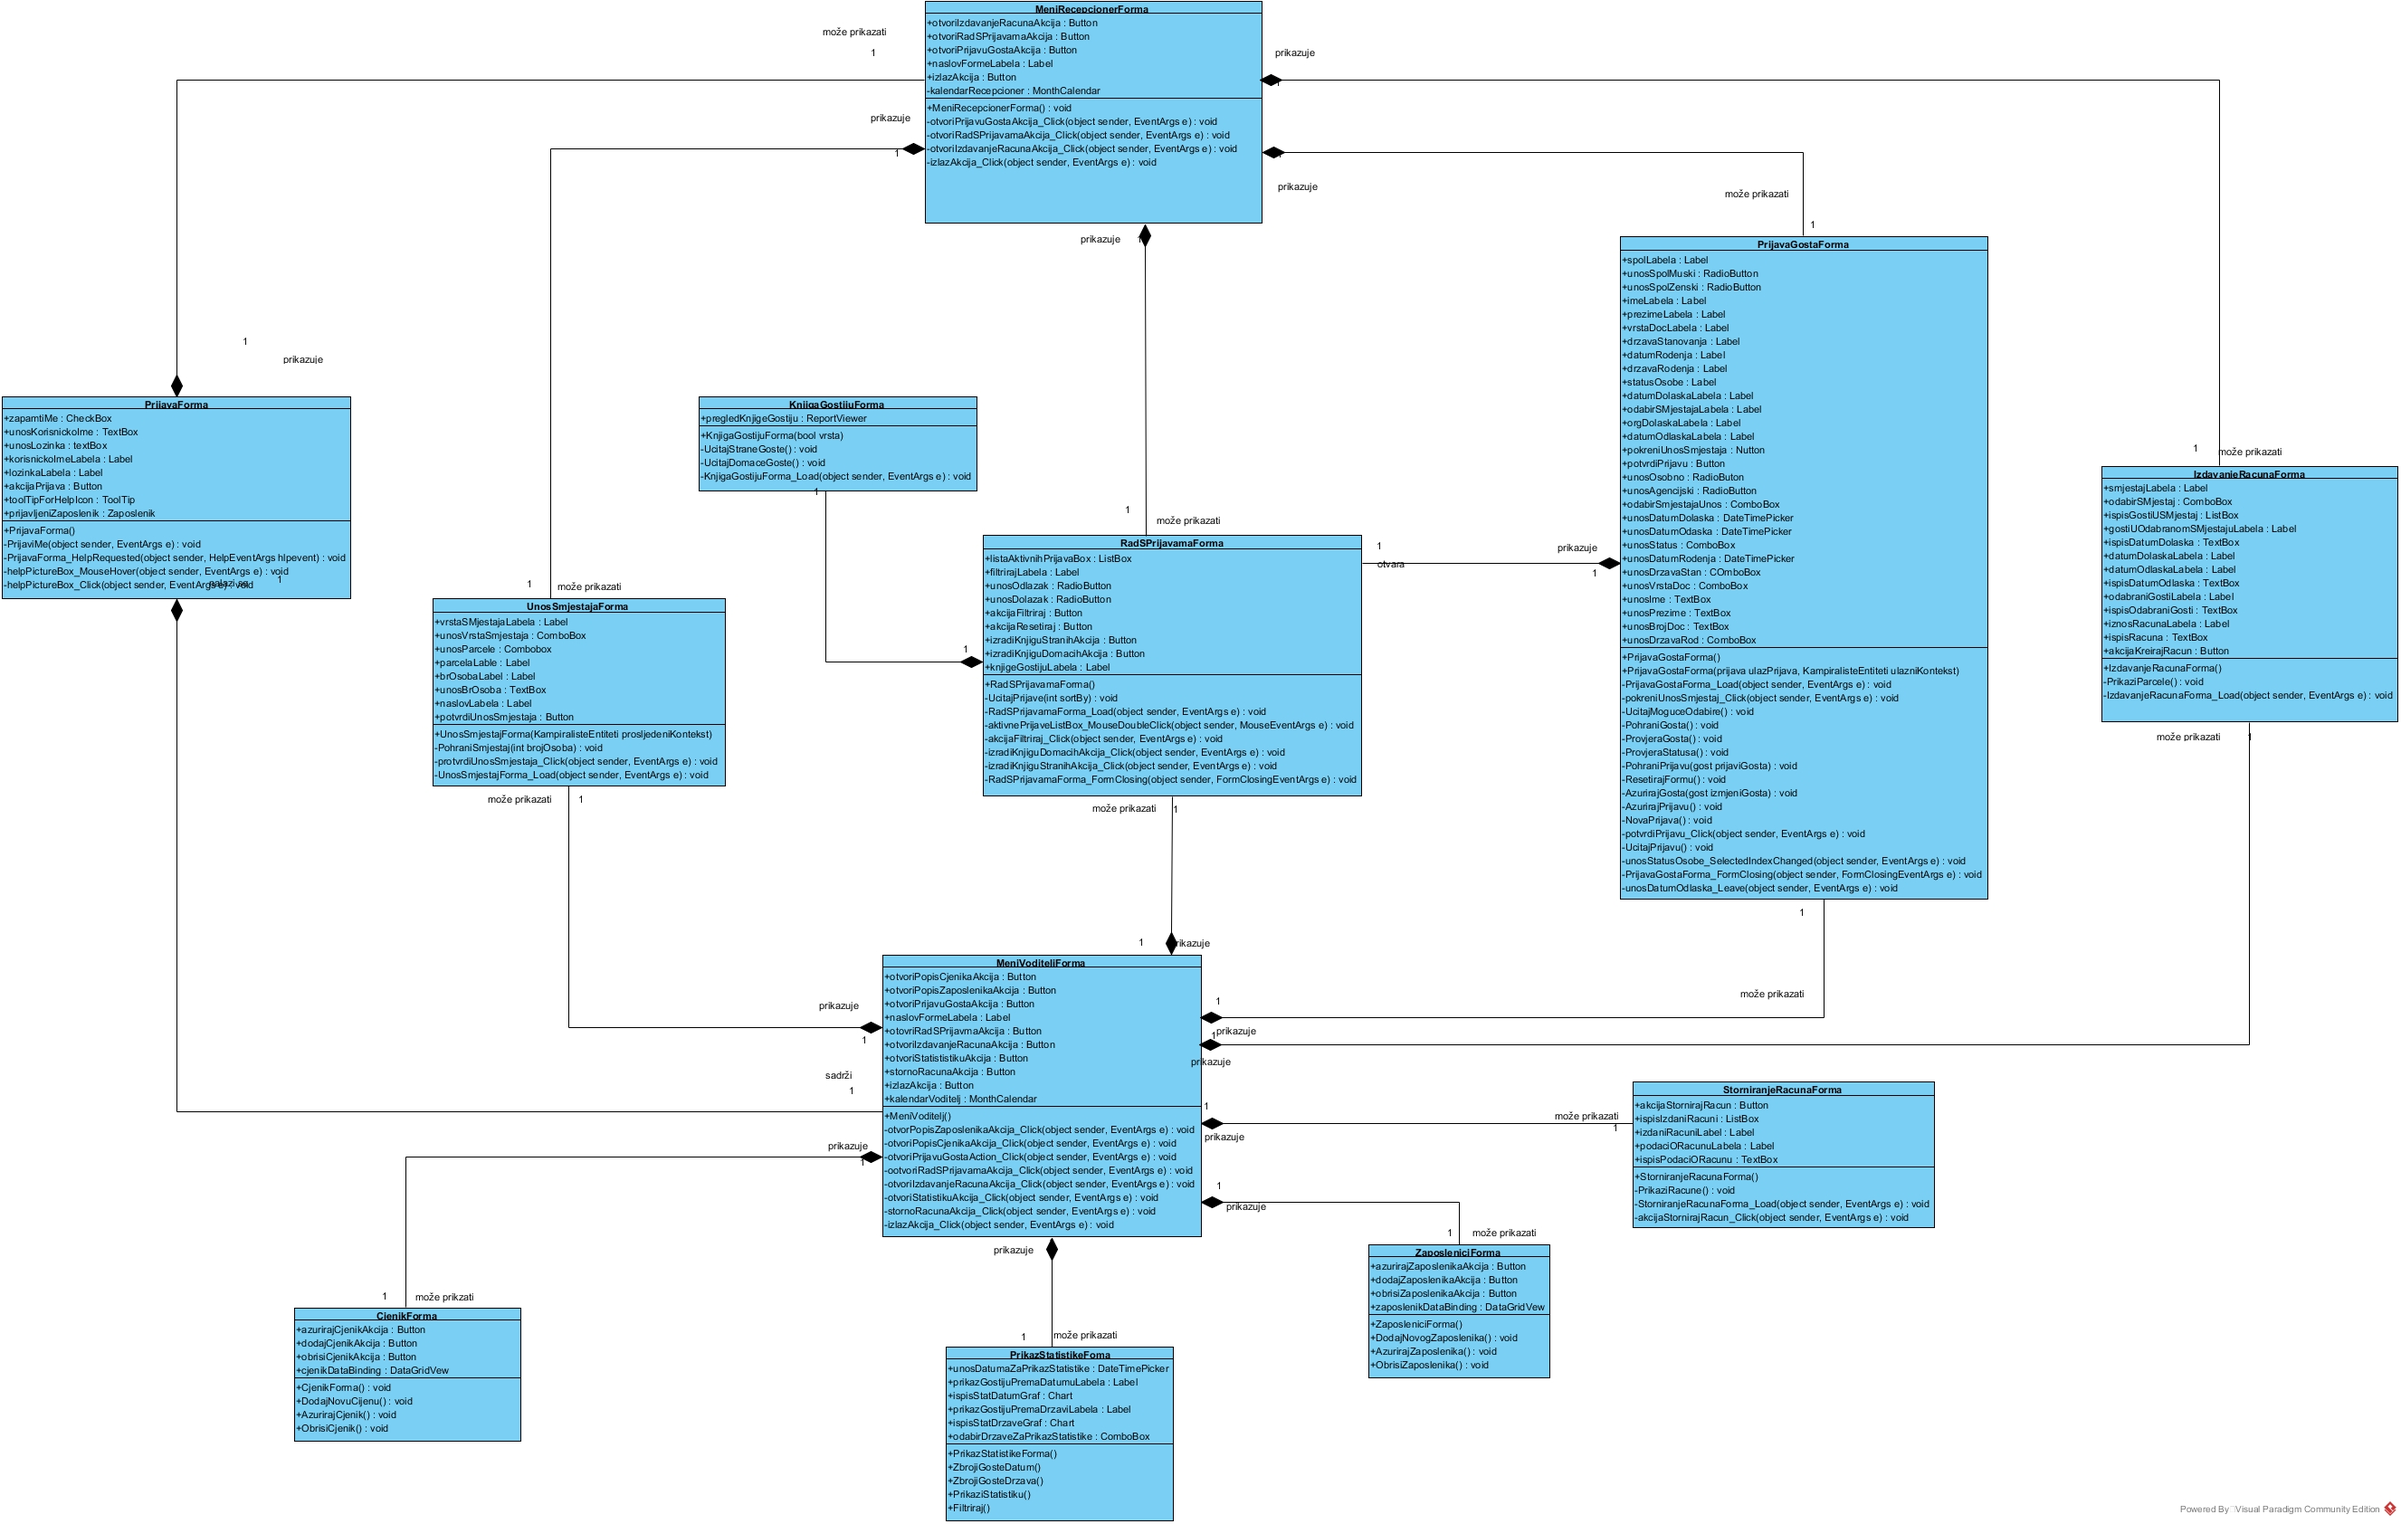
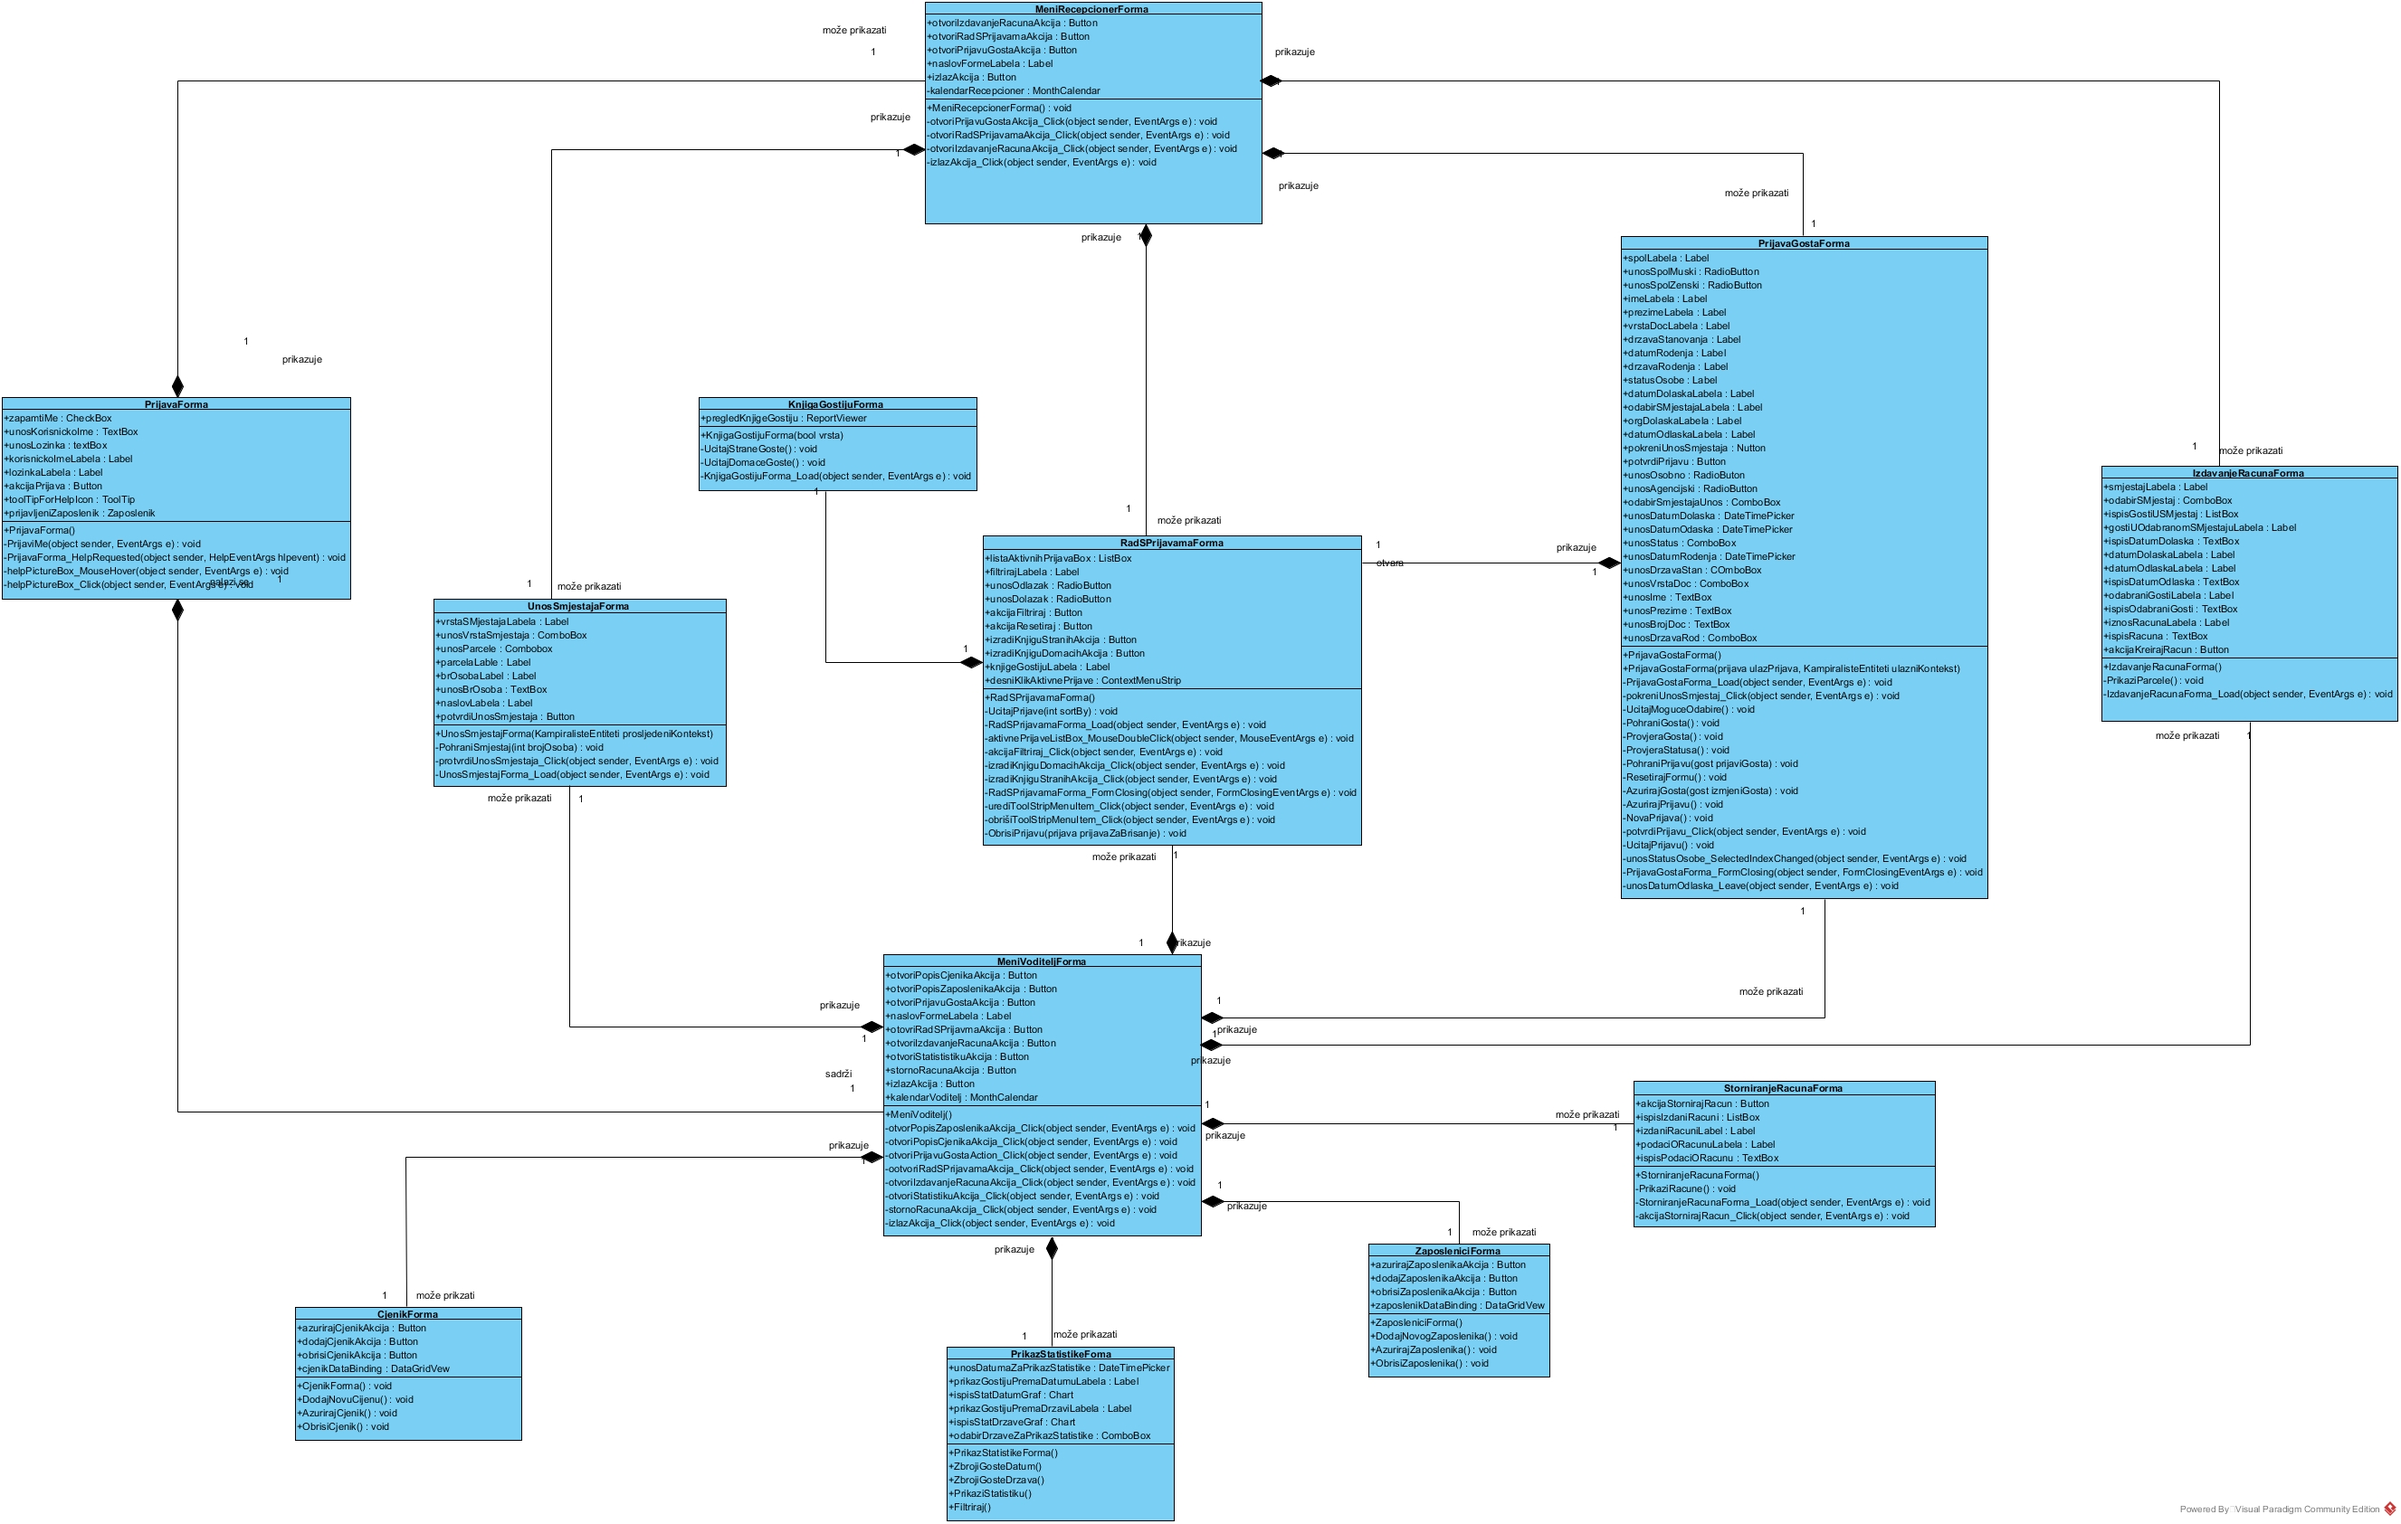
Spajanje conflicta

diff --git a/Kampiraliste/Kampiraliste/RadSPrijavamaForma.Designer.cs b/Kampiraliste/Kampiraliste/RadSPrijavamaForma.Designer.cs
@@ -43,6 +43,9 @@
             this.unosOdlazakUzlazno = new System.Windows.Forms.RadioButton();
             this.filtrirajPrijaveGroupBox = new System.Windows.Forms.GroupBox();
             this.knjigaGostijuGroupBox = new System.Windows.Forms.GroupBox();
+            this.desniKlikAktivnePrijave = new System.Windows.Forms.ContextMenuStrip(this.components);
+            this.urediToolStripMenuItem = new System.Windows.Forms.ToolStripMenuItem();
+            this.obrišiToolStripMenuItem = new System.Windows.Forms.ToolStripMenuItem();
             this.prijavaBindingSource = new System.Windows.Forms.BindingSource(this.components);
             ((System.ComponentModel.ISupportInitialize)(this.pictureBox1)).BeginInit();
             ((System.ComponentModel.ISupportInitialize)(this.pictureBox2)).BeginInit();
@@ -50,6 +53,7 @@
             ((System.ComponentModel.ISupportInitialize)(this.pictureBox4)).BeginInit();
             this.filtrirajPrijaveGroupBox.SuspendLayout();
             this.knjigaGostijuGroupBox.SuspendLayout();
+            this.desniKlikAktivnePrijave.SuspendLayout();
             ((System.ComponentModel.ISupportInitialize)(this.prijavaBindingSource)).BeginInit();
             this.SuspendLayout();
             // 
@@ -123,13 +127,14 @@
             // 
             // aktivnePrijaveListBox
             // 
+            this.aktivnePrijaveListBox.ContextMenuStrip = this.desniKlikAktivnePrijave;
             this.aktivnePrijaveListBox.Font = new System.Drawing.Font("Microsoft Sans Serif", 12F, System.Drawing.FontStyle.Regular, System.Drawing.GraphicsUnit.Point, ((byte)(0)));
             this.aktivnePrijaveListBox.FormattingEnabled = true;
             this.aktivnePrijaveListBox.ItemHeight = 20;
             this.aktivnePrijaveListBox.Location = new System.Drawing.Point(25, 219);
             this.aktivnePrijaveListBox.Name = "aktivnePrijaveListBox";
             this.aktivnePrijaveListBox.ScrollAlwaysVisible = true;
-            this.aktivnePrijaveListBox.Size = new System.Drawing.Size(549, 304);
+            this.aktivnePrijaveListBox.Size = new System.Drawing.Size(549, 324);
             this.aktivnePrijaveListBox.TabIndex = 23;
             this.aktivnePrijaveListBox.MouseDoubleClick += new System.Windows.Forms.MouseEventHandler(this.aktivnePrijaveListBox_MouseDoubleClick);
             // 
@@ -234,6 +239,28 @@
             this.knjigaGostijuGroupBox.TabStop = false;
             this.knjigaGostijuGroupBox.Text = "Knjiga gostiju";
             // 
+            // desniKlikAktivnePrijave
+            // 
+            this.desniKlikAktivnePrijave.Items.AddRange(new System.Windows.Forms.ToolStripItem[] {
+            this.urediToolStripMenuItem,
+            this.obrišiToolStripMenuItem});
+            this.desniKlikAktivnePrijave.Name = "desniKlikAktivnePrijave";
+            this.desniKlikAktivnePrijave.Size = new System.Drawing.Size(153, 70);
+            // 
+            // urediToolStripMenuItem
+            // 
+            this.urediToolStripMenuItem.Name = "urediToolStripMenuItem";
+            this.urediToolStripMenuItem.Size = new System.Drawing.Size(152, 22);
+            this.urediToolStripMenuItem.Text = "Uredi";
+            this.urediToolStripMenuItem.Click += new System.EventHandler(this.urediToolStripMenuItem_Click);
+            // 
+            // obrišiToolStripMenuItem
+            // 
+            this.obrišiToolStripMenuItem.Name = "obrišiToolStripMenuItem";
+            this.obrišiToolStripMenuItem.Size = new System.Drawing.Size(152, 22);
+            this.obrišiToolStripMenuItem.Text = "Obriši";
+            this.obrišiToolStripMenuItem.Click += new System.EventHandler(this.obrišiToolStripMenuItem_Click);
+            // 
             // prijavaBindingSource
             // 
             this.prijavaBindingSource.DataSource = typeof(Kampiraliste.prijava);
@@ -243,7 +270,7 @@
             this.AutoScaleDimensions = new System.Drawing.SizeF(6F, 13F);
             this.AutoScaleMode = System.Windows.Forms.AutoScaleMode.Font;
             this.BackgroundImage = global::Kampiraliste.Properties.Resources.WvftUC;
-            this.ClientSize = new System.Drawing.Size(604, 535);
+            this.ClientSize = new System.Drawing.Size(604, 556);
             this.Controls.Add(this.knjigaGostijuGroupBox);
             this.Controls.Add(this.filtrirajPrijaveGroupBox);
             this.Controls.Add(this.aktivnePrijaveListBox);
@@ -260,6 +287,7 @@
             this.filtrirajPrijaveGroupBox.ResumeLayout(false);
             this.filtrirajPrijaveGroupBox.PerformLayout();
             this.knjigaGostijuGroupBox.ResumeLayout(false);
+            this.desniKlikAktivnePrijave.ResumeLayout(false);
             ((System.ComponentModel.ISupportInitialize)(this.prijavaBindingSource)).EndInit();
             this.ResumeLayout(false);
 
@@ -281,5 +309,8 @@
         private System.Windows.Forms.RadioButton unosOdlazakUzlazno;
         private System.Windows.Forms.GroupBox filtrirajPrijaveGroupBox;
         private System.Windows.Forms.GroupBox knjigaGostijuGroupBox;
+        private System.Windows.Forms.ContextMenuStrip desniKlikAktivnePrijave;
+        private System.Windows.Forms.ToolStripMenuItem urediToolStripMenuItem;
+        private System.Windows.Forms.ToolStripMenuItem obrišiToolStripMenuItem;
     }
 }

diff --git a/Kampiraliste/Kampiraliste/RadSPrijavamaForma.cs b/Kampiraliste/Kampiraliste/RadSPrijavamaForma.cs
@@ -113,5 +113,80 @@ namespace Kampiraliste
         {
             kontekst.Dispose();
         }
+
+        /// <summary>
+        /// Događaj na desni klik na opciju uredi unutar meni-a. Meni se otvara desnim klikom na 
+        /// listu aktivnih prijava
+        /// </summary>
+        /// <param name="sender"></param>
+        /// <param name="e"></param>
+        private void urediToolStripMenuItem_Click(object sender, EventArgs e)
+        {
+            if (aktivnePrijaveListBox.SelectedItem != null)
+            {
+                prijava azurirajPrijavu = aktivnePrijaveListBox.SelectedItem as prijava;
+                PrijavaGostaForma instancaPrijavaGostaForma = new PrijavaGostaForma(azurirajPrijavu, kontekst);
+                instancaPrijavaGostaForma.ShowDialog();
+
+                UcitajPrijave(1);
+                unosDolazakUzlazno.Checked = true;
+            }
+            else
+            {
+                MessageBox.Show("Morate odabrati prijavu koju želite urediti!", "Brisanje", MessageBoxButtons.OK, MessageBoxIcon.Information);
+            }
+        }
+
+        /// <summary>
+        /// Funkcija za brisanje prijave, a ukoliko gost vezan za prijavu ima jednu ili nula prijava briše se
+        /// i gost.
+        /// </summary>
+        /// <param name="prijavaZaBrisanje">Objekt tipa klase prijava koji će biti obrisan</param>
+        private void ObrisiPrijavu(prijava prijavaZaBrisanje)
+        {
+            gost gostZaBrisanje = prijavaZaBrisanje.gost1;
+            int brojPrijava = gostZaBrisanje.prijavas.Count();
+
+            kontekst.gosts.Attach(gostZaBrisanje);
+            kontekst.prijavas.Attach(prijavaZaBrisanje);
+            if (brojPrijava < 2)
+            {
+                kontekst.gosts.Remove(gostZaBrisanje);
+            }
+            kontekst.prijavas.Remove(prijavaZaBrisanje);
+            kontekst.SaveChanges();
+
+            MessageBox.Show("Gost uspješno obrisan", "Poruka o brisanju", MessageBoxButtons.OK, MessageBoxIcon.Information);
+        }
+
+        /// <summary>
+        /// Događaj na desni klik na opciju obriši unutar meni-a. Meni se otvara desnim klikom na 
+        /// listu aktivnih prijava
+        /// </summary>
+        /// <param name="sender"></param>
+        /// <param name="e"></param>
+        private void obrišiToolStripMenuItem_Click(object sender, EventArgs e)
+        {
+            if (aktivnePrijaveListBox.SelectedItem != null)
+            {
+                prijava obrisiPrijavu = aktivnePrijaveListBox.SelectedItem as prijava;
+                string poruka = "Sigurno želite obrisati prijavu za gosta ";
+                poruka += obrisiPrijavu.gost1.ime + " " + obrisiPrijavu.gost1.prezime + "? ";
+                DialogResult brisanjePotvrda = MessageBox.Show(poruka, "Brisanje", MessageBoxButtons.YesNo, MessageBoxIcon.Warning);
+
+                if(brisanjePotvrda == DialogResult.Yes)
+                {
+                    ObrisiPrijavu(obrisiPrijavu);
+                }
+
+                UcitajPrijave(1);
+                unosDolazakUzlazno.Checked = true;
+            }
+            else
+            {
+                MessageBox.Show("Morate odabrati prijavu koju želite obrisati!", "Brisanje", MessageBoxButtons.OK, MessageBoxIcon.Information);
+            }
+
+        }
     }
 }

diff --git a/Kampiraliste/Kampiraliste/Program.cs b/Kampiraliste/Kampiraliste/Program.cs
@@ -16,7 +16,7 @@ namespace Kampiraliste
         {
             Application.EnableVisualStyles();
             Application.SetCompatibleTextRenderingDefault(false);
-            Application.Run(new PrijavaForma());
+            Application.Run(new RadSPrijavamaForma());
         }
     }
 }
